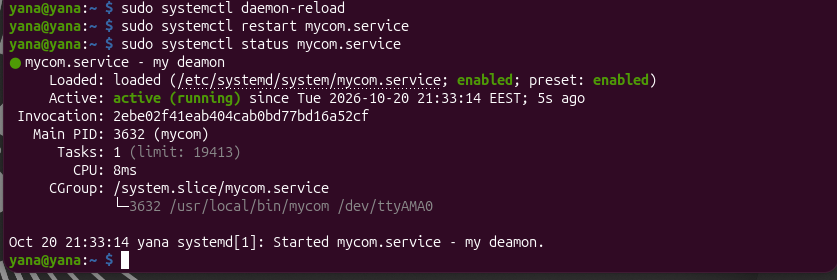
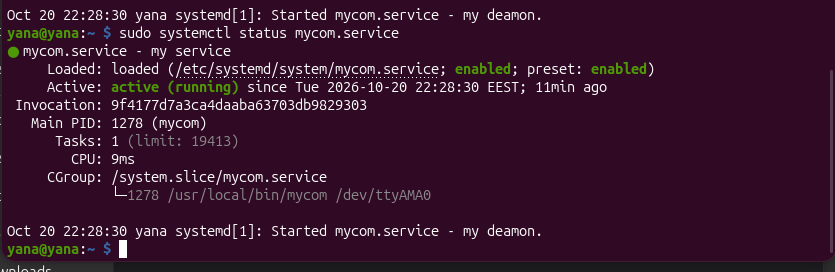
TASK06: updated the Report.md

diff --git a/task05/Report.md b/task05/Report.md
@@ -4,3 +4,20 @@
 - розроблено застосунок мовою С та усунено проблему "шуму" у терміналі шляхом точного налаштування posix-режимів через структуру termios (переведення порту в сирий режим без екранування та канонічної обробки)
 - також за вимогою завдання було реалізовано посимвольне читання буфера (програма розпізнає кінець вводу за допомогою спец-символу, змінює регістр і відправляє результат назад у термінал клієнта та зберігає історію повідомлень у лог-файл з часовими мітками
 - фінальним етапом стало налаштування автоматичного запуску програми при завантаженні таргет-системи. під час розгортання було проведено успішний дебаг помилки status=203/EXEC, що вимагало надання файлу відповідних прав доступу та налаштування абсолютних шляхів у конфігурації
+
+
+Виконання TASK06:
+
+У ході виконання завдання було реалізовано автоматичний запуск програми mycom на TARGET за допомогою systemd :
+- розроблено unit-файл (mycom.service) який забезпечує автоматичний запуск програми 
+- доповнено Makefile.
+
+Сервіс коректно запускається та працює у фоновому режимі 
+
+![коректна робота](1.png)
+![коректна робота](2.jpg)
+
+Сервіс коректно завершується командою systemctl stop та перезапускається командою systemctl restart
+
+![коректне завершення](3.png)
+![коректне перезавантаження](4.png)
